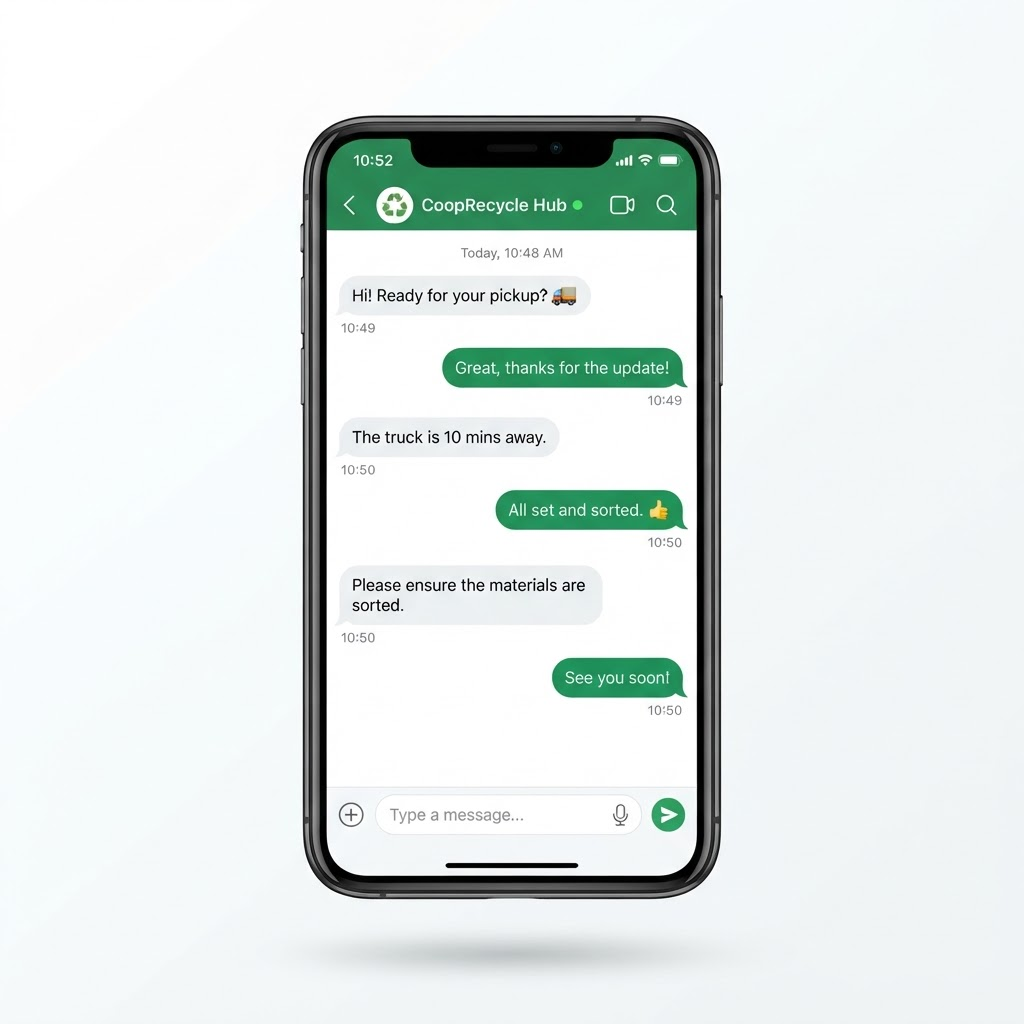
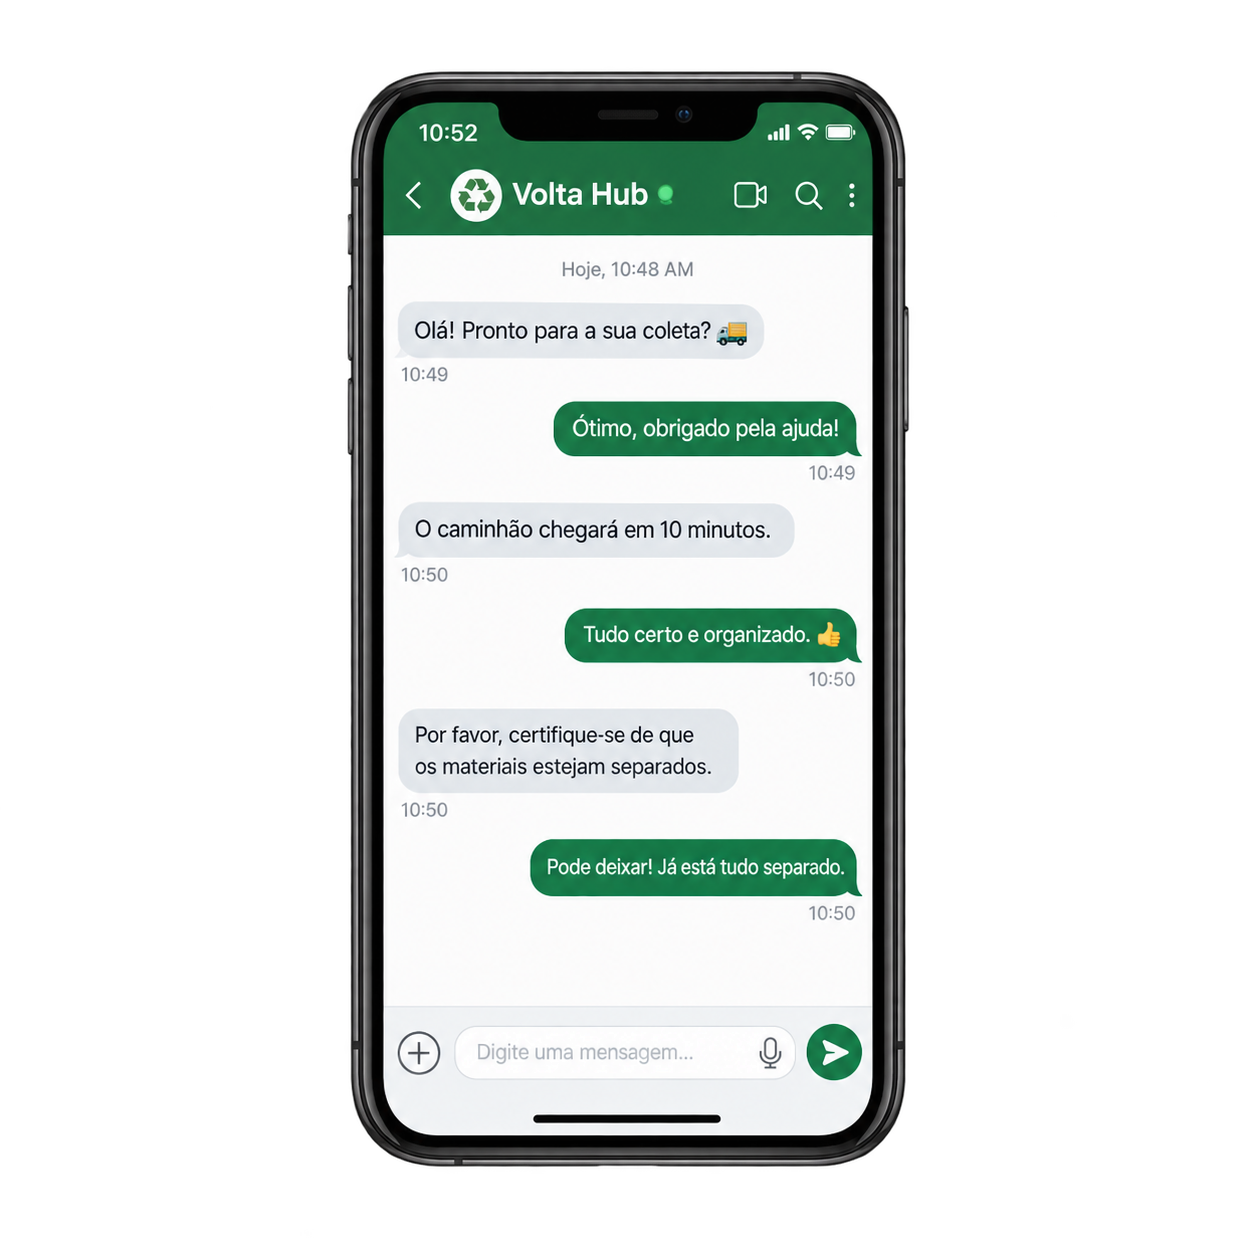
feat: Adiciona telas de login e cadastro e conecta botão de login

Changed region(s): [[0.25, 0.0312, 0.75, 0.9688]]

diff --git a/src/cadastrar.html b/src/cadastrar.html
@@ -1,0 +1,54 @@
+<!DOCTYPE html>
+<html lang="en">
+<head>
+    <meta charset="UTF-8">
+    <meta name="viewport" content="width=device-width, initial-scale=1.0">
+    <link rel="icon" href="assets/img/content/logo.png" type="image/x-icon">
+    <title>Volta - cadastrar</title>
+    <link rel="stylesheet" href="css/login-cadastrar.css">
+    <!--Fonte Belanosima-->
+    <link rel="preconnect" href="https://fonts.googleapis.com">
+    <link rel="preconnect" href="https://fonts.gstatic.com" crossorigin>
+    <link href="https://fonts.googleapis.com/css2?family=Belanosima:wght@400;600;700&display=swap" rel="stylesheet">
+</head>
+<body>
+    <div id="container">
+        <img id="Logo-VOLTA" src="/src/assets/img/content/Logo_VOLTA.png" alt="Logo do Volta">
+        <h1>Bem vindo(a)</h1>
+        <form>
+            <label for="name">Nome:</label>
+            <input type="text" id="name" name="name" placeholder="Nome da Empresa" required>
+            <br>
+            <label for="email">E-mail:</label>
+            <input type="email" id="email" name="email" placeholder="Email" required>
+            <br>
+            <label for="cnpj">CNPJ:</label>
+            <input type="text" id="cnpj" name="cnpj" placeholder="CNPJ" inputmode="numeric" maxlength="18" required>
+            <br>
+            <label for="cep">CEP:</label>
+            <input type="text" id="cep" name="cep" placeholder="CEP" inputmode="numeric" maxlength="9" required>
+            <br>
+            <label for="senha">Senha:</label>
+            <input type="password" id="senha" class="input-senha" name="senha" placeholder="Senha" required>
+            <br>
+            <label for="confirmar-senha">Confirmar Senha:</label>
+            <input type="password" id="confirmar-senha" class="input-senha" name="confirmar-senha" placeholder="Confirmar Senha" required>
+            <br>
+            <button type="submit">Cadastre-se</button>
+            <p>Já tem uma conta? <a href="login.html">Faça login</a></p>
+        </form>
+        <svg class="shape" width="1440" height="656" viewBox="0 0 1440 656" fill="none" xmlns="http://www.w3.org/2000/svg">
+            <g opacity="0.4">
+                <rect width="598.781" height="41.3074" transform="matrix(-0.522096 -0.852887 -0.852772 0.522283 1548.02 994.635)" fill="#5DA753"/>
+                <path d="M1180.17 433.116L1176.39 522.447L1261.4 470.374L1180.17 433.116Z" fill="#5DA753"/>
+            </g>
+            <rect width="647.219" height="44.6489" transform="matrix(-0.602108 -0.798414 -0.798282 0.602284 1615.18 603.188)" fill="#5DA753"/>
+            <path d="M1160.75 37.5287L1166.02 134.029L1252.04 69.1231L1160.75 37.5287Z" fill="#5DA753"/>
+            <g opacity="0.7">
+                <rect width="647.219" height="44.6489" transform="matrix(0.488172 -0.872747 0.87264 0.488364 -173.164 866.549)" fill="#5DA753"/>
+                <path d="M200.283 243.448L208.157 339.77L114.128 287.14L200.283 243.448Z" fill="#5DA753"/>
+            </g>
+        </svg>
+    </div>
+</body>
+</html>

diff --git a/src/login.html b/src/login.html
@@ -1,0 +1,43 @@
+<!DOCTYPE html>
+<html lang="en" id="html-login">
+<head>
+    <meta charset="UTF-8">
+    <meta name="viewport" content="width=device-width, initial-scale=1.0">
+    <link rel="icon" href="assets/img/content/logo.png" type="image/x-icon">
+    <title>Volta - login</title>
+    <link rel="stylesheet" href="css/login-cadastrar.css">
+    <!--Fonte Belanosima-->
+    <link rel="preconnect" href="https://fonts.googleapis.com">
+    <link rel="preconnect" href="https://fonts.gstatic.com" crossorigin>
+    <link href="https://fonts.googleapis.com/css2?family=Belanosima:wght@400;600;700&display=swap" rel="stylesheet">
+</head>
+<body>
+    <div id="container">
+        <img id="Logo-VOLTA" src="/src/assets/img/content/Logo_VOLTA.png" alt="Logo do Volta">
+        <h1>Bem vindo(a)</h1>
+        <form method="post">
+            <label for="email">E-mail:</label>
+            <input type="email" id="email" name="email" placeholder="Email" required>
+            <br>
+            <label for="senha">Senha:</label>
+            <input type="password" id="senha" class="input-senha" name="senha" placeholder="Senha" required>
+            <br>
+
+            <button type="submit">Entrar</button>
+            <p>Ainda não tem uma conta? <a href="cadastrar.html">Cadastre-se</a></p>
+        </form>
+        <svg class="shape" width="1440" height="656" viewBox="0 0 1440 656" fill="none" xmlns="http://www.w3.org/2000/svg">
+            <g opacity="0.4">
+                <rect width="598.781" height="41.3074" transform="matrix(-0.522096 -0.852887 -0.852772 0.522283 1548.02 994.635)" fill="#5DA753"/>
+                <path d="M1180.17 433.116L1176.39 522.447L1261.4 470.374L1180.17 433.116Z" fill="#5DA753"/>
+            </g>
+            <rect width="647.219" height="44.6489" transform="matrix(-0.602108 -0.798414 -0.798282 0.602284 1615.18 603.188)" fill="#5DA753"/>
+            <path d="M1160.75 37.5287L1166.02 134.029L1252.04 69.1231L1160.75 37.5287Z" fill="#5DA753"/>
+            <g opacity="0.7">
+                <rect width="647.219" height="44.6489" transform="matrix(0.488172 -0.872747 0.87264 0.488364 -173.164 866.549)" fill="#5DA753"/>
+                <path d="M200.283 243.448L208.157 339.77L114.128 287.14L200.283 243.448Z" fill="#5DA753"/>
+            </g>
+        </svg>
+    </div>
+</body>
+</html>

diff --git a/src/css/login-cadastrar.css b/src/css/login-cadastrar.css
@@ -1,0 +1,120 @@
+* {
+    margin: 0;
+    padding: 0;
+    box-sizing: border-box;
+    font-family: "Belanosima", sans-serif;
+    font-weight: 400;
+    font-style: normal;
+}
+
+html {
+    scroll-behavior: smooth;
+    background-color: var(--verde-esbranquicado);
+}
+
+
+body {
+    color: black;
+    display: flex;
+    align-items: center;
+}
+/*CORES*/
+:root {
+    --verde-medio: #3B8952;
+    --verde-floresta: #0D510A;
+    --verde-petroleo: #0F684B;
+    --verde-gelo: #F5FCF4;
+    --verde-esbranquicado: #D8EBE0;
+    --verde-principal: #337D29;
+    --verde-escuro: #063300;
+    
+    --verde-claro: color-mix(in srgb, var(--verde-medio) 30%, white);
+    --verde-suave: color-mix(in srgb, var(--verde-medio) 15%, white);
+}
+/*FORMS*/
+
+#container{
+    position: relative;
+    max-width: 100% ;
+    height: auto;
+    display: flex;
+    flex-direction: column;
+    justify-content: center;
+    align-items: center;
+    z-index: 1;
+}
+
+#Logo-VOLTA{
+    position: relative;
+    z-index: 1;
+    max-width: 20%;
+    height: auto;
+    margin-top: 20px;
+}
+
+h1 {
+    margin-bottom: 50px;
+}
+form {
+    position: relative;
+    bottom: -0px;
+    z-index: 1;
+    min-width: 40%;
+    margin: 0 auto;
+    padding: 20px;
+    background: var(--verde-gelo);
+    border-radius: 8px;
+}label {
+    display: block;
+    margin-top: 20px;
+    font-weight:500;
+}
+input[type="text"],
+input[type="email"],
+.input-senha {
+    width: 100%;
+    padding: 8px;
+    margin-top: 5px;
+    box-sizing: border-box;
+    border: 2px solid var(--verde-esbranquicado);
+    border-radius: 4px;
+}
+
+p{
+    margin-top: 15px;
+    text-align: center;
+}
+
+a{
+    color: var(--verde-floresta);
+}
+
+a:hover{
+    color: var(--verde-escuro);
+    transition: 0.3s;
+}
+
+button {
+    display: block;
+    width: 100%;
+    padding: 10px;
+    margin-top: 20px;
+    background-color: var(--verde-principal);
+    color: white;
+    border: none;
+    border-radius: 4px;
+    cursor: pointer;
+    transition: 0.3s;
+}
+button:hover {
+    background-color: var(--verde-floresta);
+}
+
+.shape {
+    position: absolute;
+    bottom: -250px;
+    left: 0;
+    width: 100%;
+    height: auto;
+    z-index: 0;
+}

diff --git a/src/index.html b/src/index.html
@@ -41,7 +41,7 @@
                 <a class="link-pagina" href="#cooperativas">Cooperativas</a>
                 <a class="link-pagina" href="#equipe">Equipe</a>
                 <a class="link-pagina" href="#footer">Contato</a>
-                <a href="#login" id="link-login">Login</a>
+                <a href="login.html" id="link-login">Login</a>
                 
             </div> 
         </div>
@@ -116,7 +116,7 @@
                     <p>É possível conversar com as cooperativas por um <span style="color: #3B8952;">chat integrado</span> na plataforma para deixar a comunicação mais simples e segura.</p>
                 </div>
             </div>
-            <img class="celular-sobre" src="/src/assets/img/content/celular_mensagens.png" alt="">
+            <img class="celular-sobre" src="/src/assets/img/content/celular_mensagens.png" alt="Tela de chat do app VOLTA">
         </section>
     </div>
 
@@ -208,7 +208,7 @@
                     </p>
                 </div>
             </div>
-            <img class="celular-dashboard" src="/src/assets/img/content/celular_dashboard.jpeg" alt="">
+            <img class="celular-dashboard" src="/src/assets/img/content/celular_dashboard.jpeg" alt="Tela de dashboard do app VOLTA">
         </section>
     </div>
 
@@ -217,7 +217,7 @@
             <h2>Nosso objetivo</h2>
             <div id="objetivo-conteudo">
                 <p>
-                    Nosso objetivo com a plataforma, 
+                    Nosso objetivo com a plataforma 
                     é fazer com que a conexão e
                     comunicação entre cooperativas
                     e empresas seja mais fácil e
@@ -233,7 +233,7 @@
                 </p>
             
 
-                <img src="/src/assets/img/content/nosso_objetivo.png" alt="">
+                <img src="/src/assets/img/content/nosso_objetivo.png" alt="Ilustração do objetivo do VOLTA">
             </div>
         </div>
     </div>

diff --git a/src/js/main.js b/src/js/main.js
@@ -102,7 +102,7 @@ const lista_bloco_dois_coop = [
 
     "Preencha os campos com as informações pedidas.",
 
-    "Essa informação fica visível para empresas, para que elas posam fazer as melhores escolhas para elas.",
+    "Essa informação fica visível para empresas, para que elas possam fazer as melhores escolhas para elas.",
 
     "Converse com a empresa sobre o agendamento da coleta.",
 
@@ -114,9 +114,9 @@ const lista_bloco_tres_coop = [
 
     "Aceite os Termos e Condições e conclua o cadastro.",
 
-    "",
+    "Adicione também fotos e a localização da sua cooperativa.",
 
-    "Agende a coleta quanto estiver tudo certo.",
+    "Agende a coleta quando estiver tudo certo.",
 
     "Tudo pronto."
 

diff --git a/src/css/landing.css b/src/css/landing.css
@@ -48,9 +48,10 @@ p  { font-size: 1rem; line-height: 1.6; }
 
 :root {
     --verde-medio: #3B8952;
-    --verde-floresta: #0F684B;
-    --verde-petroleo: #03484C;
+    --verde-floresta: #0D510A;
+    --verde-petroleo: #0F684B;
     --verde-gelo: #F5FCF4;
+    --verde-esbranquicado: #D8EBE0;
     --verde-principal: #337D29;
     --verde-escuro: #063300;
     
